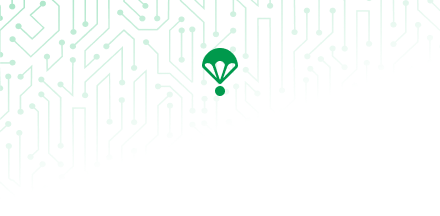
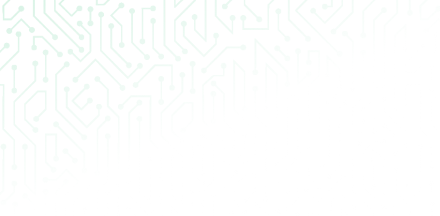
stlye(retina display): airdrop welcome modal

diff --git a/packages/blockchain-wallet-v4-frontend/src/modals/Onboarding/UpgradeForAirdrop/index.js b/packages/blockchain-wallet-v4-frontend/src/modals/Onboarding/UpgradeForAirdrop/index.js
@@ -2,6 +2,7 @@ import { actions } from 'data'
 import { bindActionCreators, compose } from 'redux'
 import {
   Button,
+  Icon,
   Link,
   Modal,
   ModalBody,
@@ -38,18 +39,35 @@ const Body = styled(ModalBody)`
 const BgHeader = styled.div`
   width: 100%;
   height: 150px;
+  /* stylelint-disable */
+  background-image: -webkit-image-set(
+    url('/img/airdrop-welcome.png') 1x,
+    url('/img/airdrop-welcome@2x.png') 2x
+  );
+  /* stylelint-enable */
   background-image: url('/img/airdrop-welcome.png');
   background-repeat: no-repeat;
   background-size: cover;
   border-radius: 8px 8px 0 0;
   box-sizing: border-box;
 `
+const TitleHeader = styled.div`
+  display: flex;
+  align-items: center;
+  justify-content: center;
+  flex-direction: column;
+  text-align: center;
+  margin-top: -100px;
+  padding: 0;
+`
+const AirdropIcon = styled(Icon)`
+  margin-bottom: 30px;
+`
 const CopyHeader = styled(Text)`
   width: 100%;
   font-size: 24px;
   font-weight: 600;
   color: ${props => props.theme['grey800']};
-  margin-top: -20px;
   padding: 0 25px;
 `
 const CopyContainer = styled.div`
@@ -98,17 +116,20 @@ class UpgradeForAirdrop extends React.PureComponent {
         <AbsoluteModalHeader onClose={close} />
         <Body>
           <BgHeader />
-          <CopyHeader>
-            <FormattedMessage
-              id='modals.upgradeforairdrop.latestairdrop1'
-              defaultMessage='Our Latest Airdrop is Here!'
-            />
-            <br />
-            <FormattedMessage
-              id='modals.upgradeforairdrop.unlock'
-              defaultMessage='Unlock Access Today.'
-            />
-          </CopyHeader>
+          <TitleHeader>
+            <AirdropIcon name='parachute' color='green600' size='40px' />
+            <CopyHeader>
+              <FormattedMessage
+                id='modals.upgradeforairdrop.latestairdrop1'
+                defaultMessage='Our Latest Airdrop is Here!'
+              />
+              <br />
+              <FormattedMessage
+                id='modals.upgradeforairdrop.unlock'
+                defaultMessage='Unlock Access Today.'
+              />
+            </CopyHeader>
+          </TitleHeader>
           <CopyContainer>
             <Copy size='16px'>
               <FormattedMessage

diff --git a/packages/blockchain-info-components/src/Images/Images.js b/packages/blockchain-info-components/src/Images/Images.js
@@ -1,5 +1,6 @@
 import airdropEnrolled from './img/airdrop-enrolled.png'
 import airdropWelcome from './img/airdrop-welcome.png'
+import airdropWelcome2 from './img/airdrop-welcome@2x.png'
 import airdropWelcomeBanner from './img/airdrop-welcome-banner.png'
 import airdropWelcomeBanner2 from './img/airdrop-welcome-banner@2x.png'
 import allowCamera from './img/allow-camera.png'
@@ -141,6 +142,7 @@ export default {
   'airdrop-welcome-banner': airdropWelcomeBanner,
   'airdrop-welcome-banner2': airdropWelcomeBanner2,
   'airdrop-welcome': airdropWelcome,
+  'airdrop-welcome2': airdropWelcome2,
   'allow-camera': allowCamera,
   'allow-camera2': allowCamera2,
   'allow-camera3': allowCamera3,
